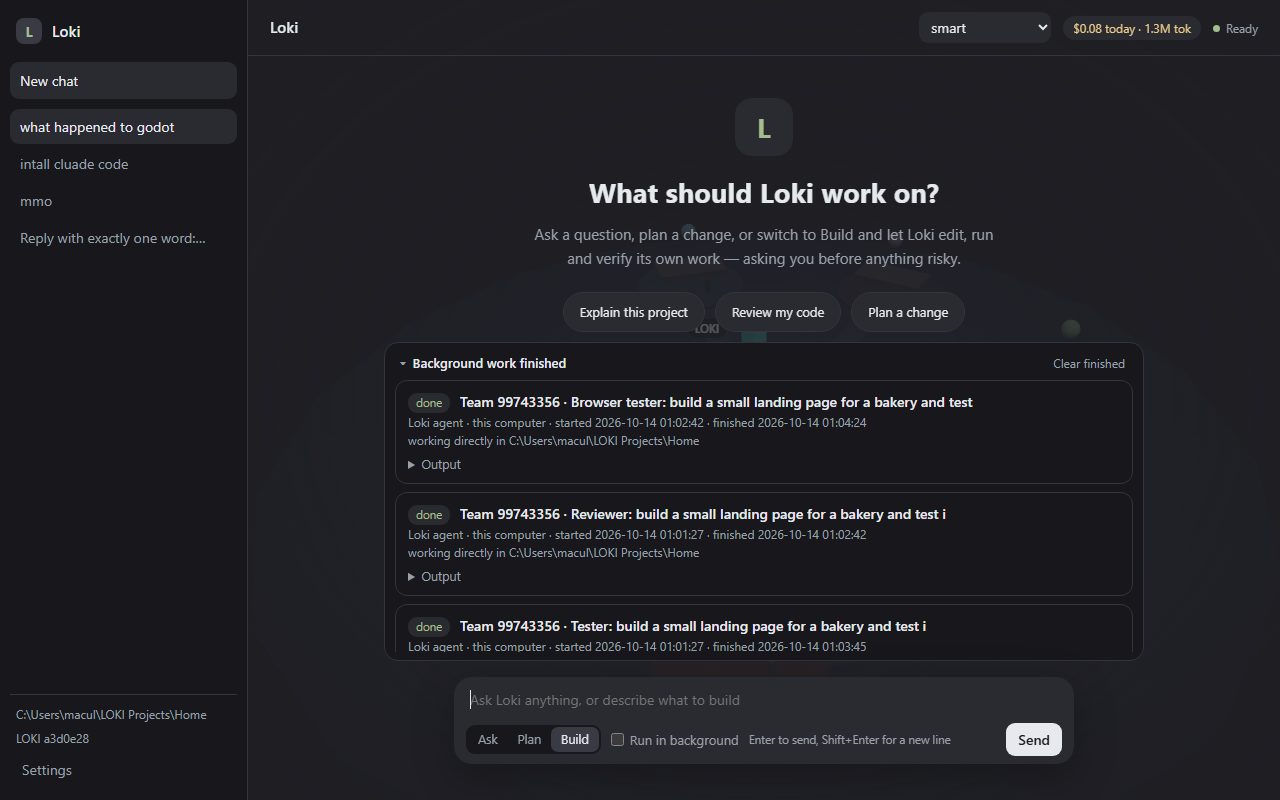
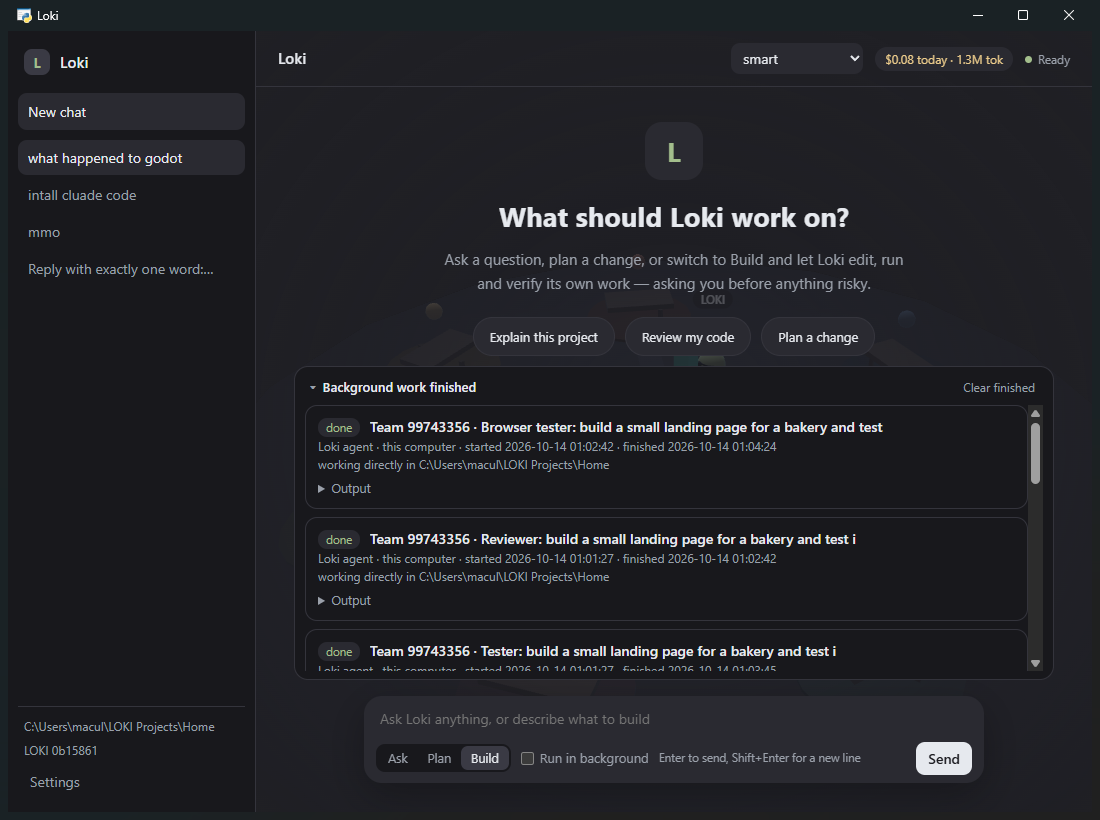
ziva(windows): W6 real WebView2 world capture (world-windows.png)

diff --git a/ZIVA_TASKS.md b/ZIVA_TASKS.md
@@ -122,9 +122,9 @@ model weights). Do not add it. Kyojin's "uncensored" presets are also not used.
       fine to commit). If the canvas is blank, open the WebView devtools (`LOKI_APP_DEBUG=1`) and
       paste the console errors.
       PART DONE 2026-10-14 (Ziva Windows): the LOKI UI + the 3D world canvas render -
-      captured docs/operations/screens/world-windows.png with headless Chrome at
-      /ui/index.html#token=... (NOT WebView2, and background mode). The frame is ~39% navy
-      world canvas behind the home UI. STILL TO DO for a real W6: open Settings > LOKI World
+      captured docs/operations/screens/world-windows.png from the REAL WebView2 window
+      (PowerShell PrintWindow PW_RENDERFULLCONTENT, 1100x820, background mode) - ~43% navy
+      world canvas behind the home UI, not a black capture. STILL TO DO for a real W6: open Settings > LOKI World
       in the running app (drag/wheel), start a team and watch the characters walk - that needs
       the app window (the owner), so WebView2-specific rendering is unverified.
 - [ ] **W7 Update everything.** Once the Mac is linked (M3), ship any tiny change from the Mac,
@@ -206,7 +206,7 @@ model weights). Do not add it. Kyojin's "uncensored" presets are also not used.
   via ModelScope), 129 offline checks pass. Added the [claude]/[loki] request tags and a
   scheduled Claude check of this file every few hours. New tasks: W11 (Qwen images), W12
   (LOKI's first own job). Ziva's session-15 commit is on master as 6dc2898 (thanks).
-- 2026-10-14 windows (Ziva) W6 (proxy): headless-Chrome capture of the app UI + World canvas -> docs/operations/screens/world-windows.png. Real WebView2 panel shot still needs the app.
+- 2026-10-14 windows (Ziva) W6: captured the REAL WebView2 window (PrintWindow) -> docs/operations/screens/world-windows.png (~43% navy world canvas behind home). Drag/wheel + team-walk still need the app.
 - 2026-10-14 windows (Ziva) W5 image: Z-Image weights downloaded (26 GB cache); local CUDA generation SEGFAULTS on step 1/9; Pollinations works. W10 done via a logon Startup shortcut (Task Scheduler needs admin). W2: portal API verified headless (GET /providers 200, /world 200).
 - 2026-10-14 windows (Ziva) W5 extras (PC): installed yt-dlp, opencode, agent-reach (+PATH
   shim) and ffmpeg; enabled media, image-gen, agent-reach, opencode; verified reach.doctor and a
